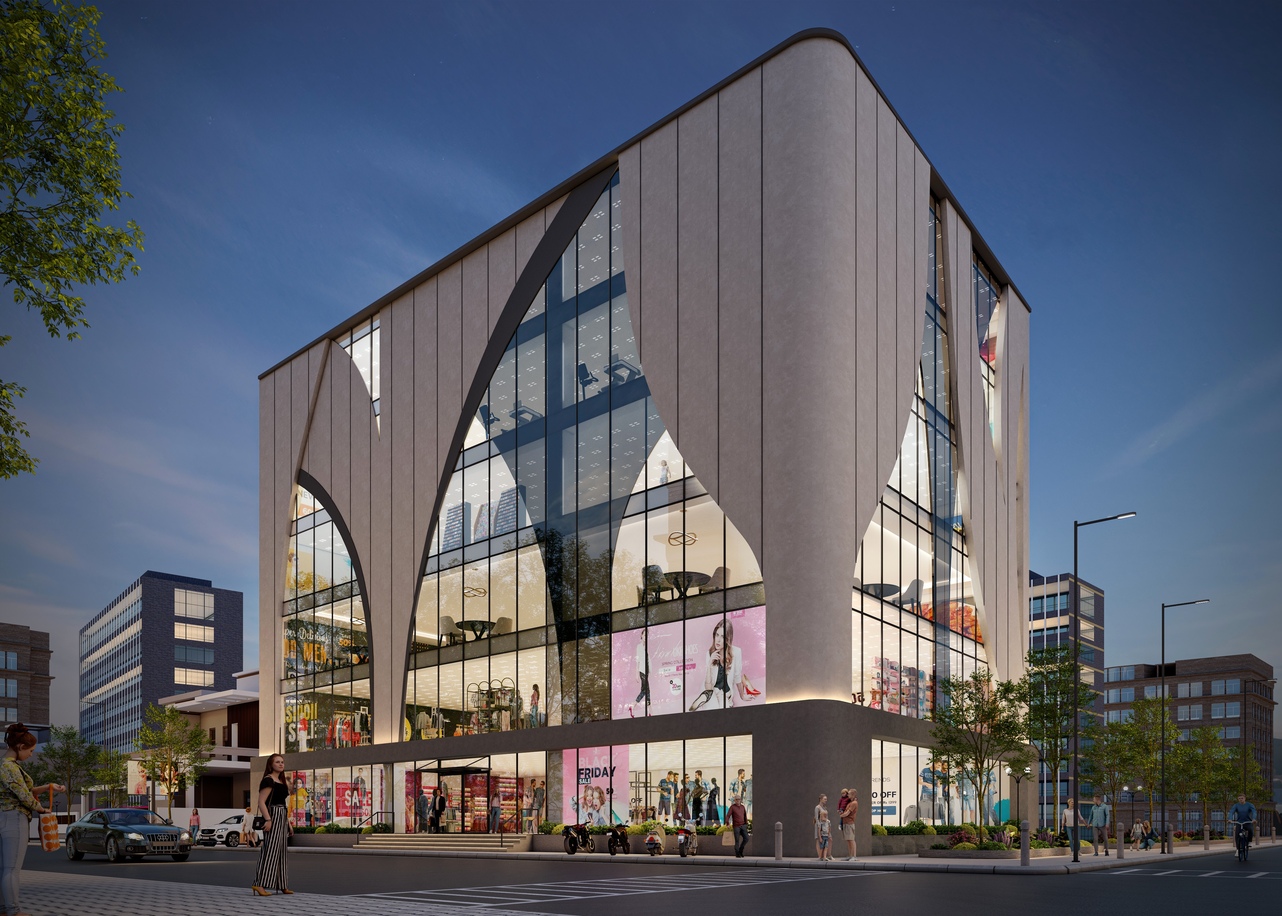
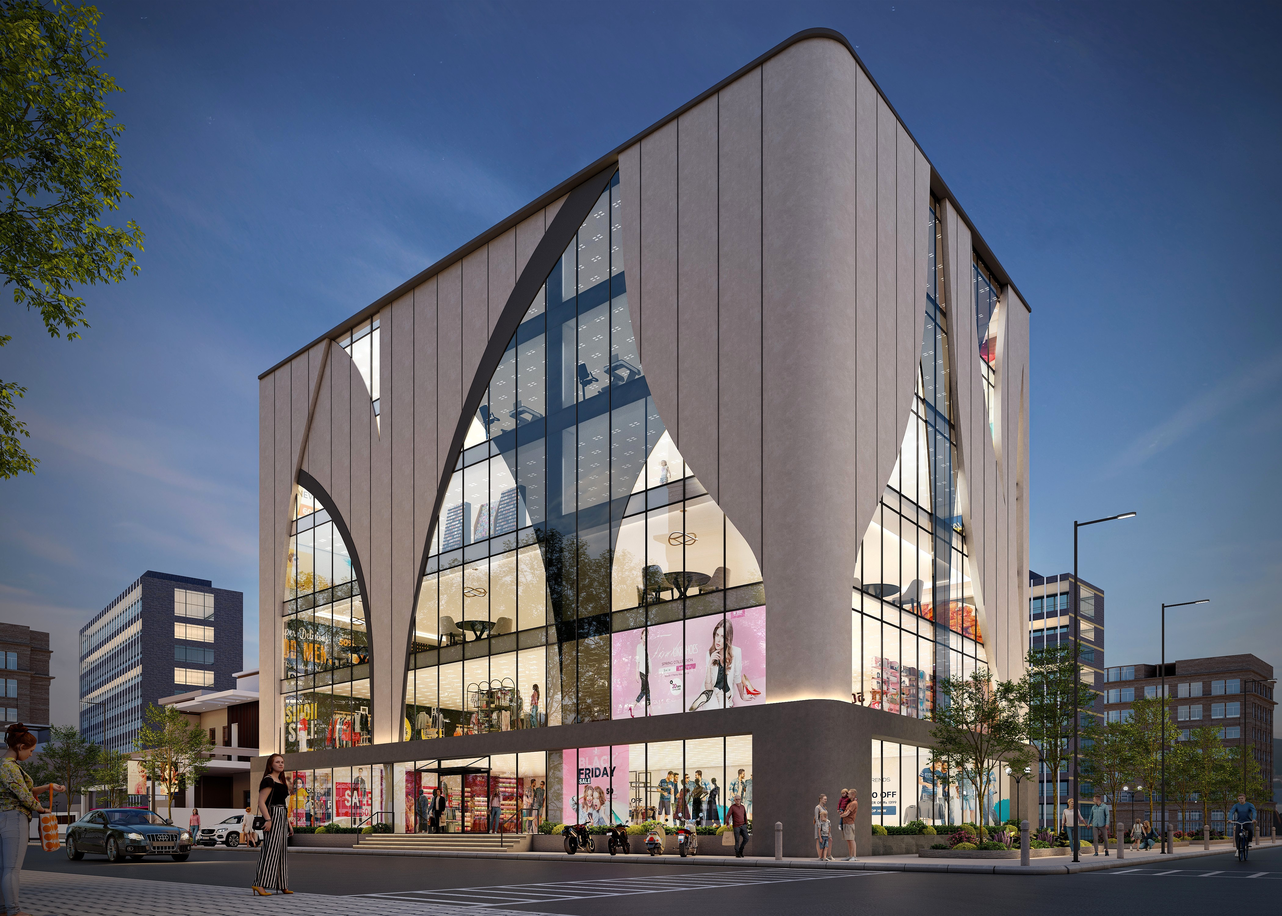
fixed animations

diff --git a/src/components/Photo.css b/src/components/Photo.css
@@ -26,15 +26,16 @@
 .hero-image {
   position: absolute;
   top: 36px;
-  right: 0;
+  right: -155px;
   bottom: 0;
 
-  width: 65%;
+  width: 60%;
 
   background-image: url("../designs/Commercial Exteriors/Commercial Building NV 02.jpg");
   background-size: cover;
-  background-position: center top;
+  background-position: right top;
   background-repeat: no-repeat;
+  
 
   /* Eased, multi-stop scrim mask: smooth 90px atmospheric top gradient that blends seamlessly into the dark background */
   -webkit-mask-image:
@@ -68,7 +69,11 @@
       rgba(0, 0, 0, 0.44) 34%,
       rgba(0, 0, 0, 0.70) 46%,
       rgba(0, 0, 0, 0.90) 58%,
-      #000 68%
+      #000 68%,
+      #000 calc(100% - 40px),
+      rgba(0, 0, 0, 0.85) calc(100% - 20px),
+      rgba(0, 0, 0, 0.30) calc(100% - 6px),
+      transparent 100%
     );
   mask-image:
     linear-gradient(
@@ -101,12 +106,17 @@
       rgba(0, 0, 0, 0.44) 34%,
       rgba(0, 0, 0, 0.70) 46%,
       rgba(0, 0, 0, 0.90) 58%,
-      #000 68%
+      #000 68%,
+      #000 calc(100% - 40px),
+      rgba(0, 0, 0, 0.85) calc(100% - 20px),
+      rgba(0, 0, 0, 0.30) calc(100% - 6px),
+      transparent 100%
     );
   -webkit-mask-composite: source-in;
   mask-composite: intersect;
 
   z-index: 0;
+  
 }
 
 
@@ -126,17 +136,17 @@
     linear-gradient(
       90deg,
       var(--bg) 0%,
-      var(--bg) 30%,
-      rgba(10, 11, 13, 0.86) 40%,
-      rgba(10, 11, 13, 0.55) 50%,
-      rgba(10, 11, 13, 0.18) 63%,
-      rgba(10, 11, 13, 0) 78%
+      var(--bg) 35%,
+      rgba(10, 11, 13, 0.88) 45%,
+      rgba(10, 11, 13, 0.55) 55%,
+      rgba(10, 11, 13, 0.18) 66%,
+      rgba(10, 11, 13, 0) 80%
     );
 }
 
 
 /* =========================================
-   CONTAINER
+   CONTAINER (Uniform with Hero & Site)
 ========================================= */
 
 .hero-container {
@@ -144,13 +154,13 @@
   z-index: 2;
 
   width: 100%;
-  max-width: 1600px;
+  max-width: var(--maxw);
 
   min-height: calc(90vh - 70px);
 
   margin: 0 auto;
 
-  padding: 80px 42px 45px;
+  padding: 80px 28px 45px;
 
   display: flex;
   flex-direction: column;
@@ -163,8 +173,8 @@
 ========================================= */
 
 .hero-content {
-  width: 43%;
-  max-width: 620px;
+  width: 48%;
+  max-width: 560px;
 }
 
 
